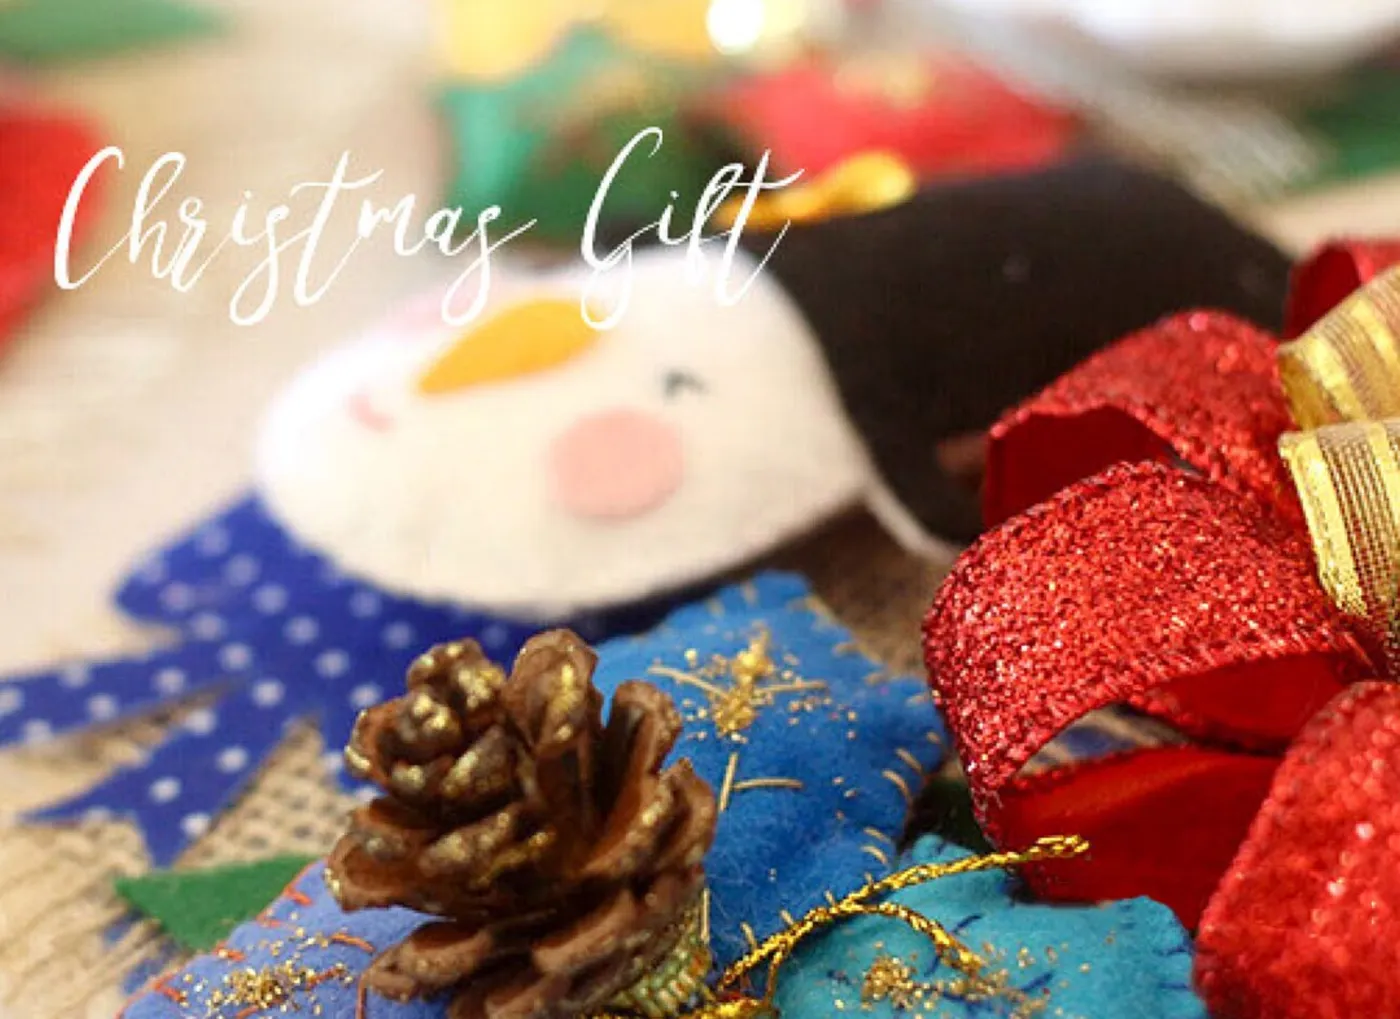
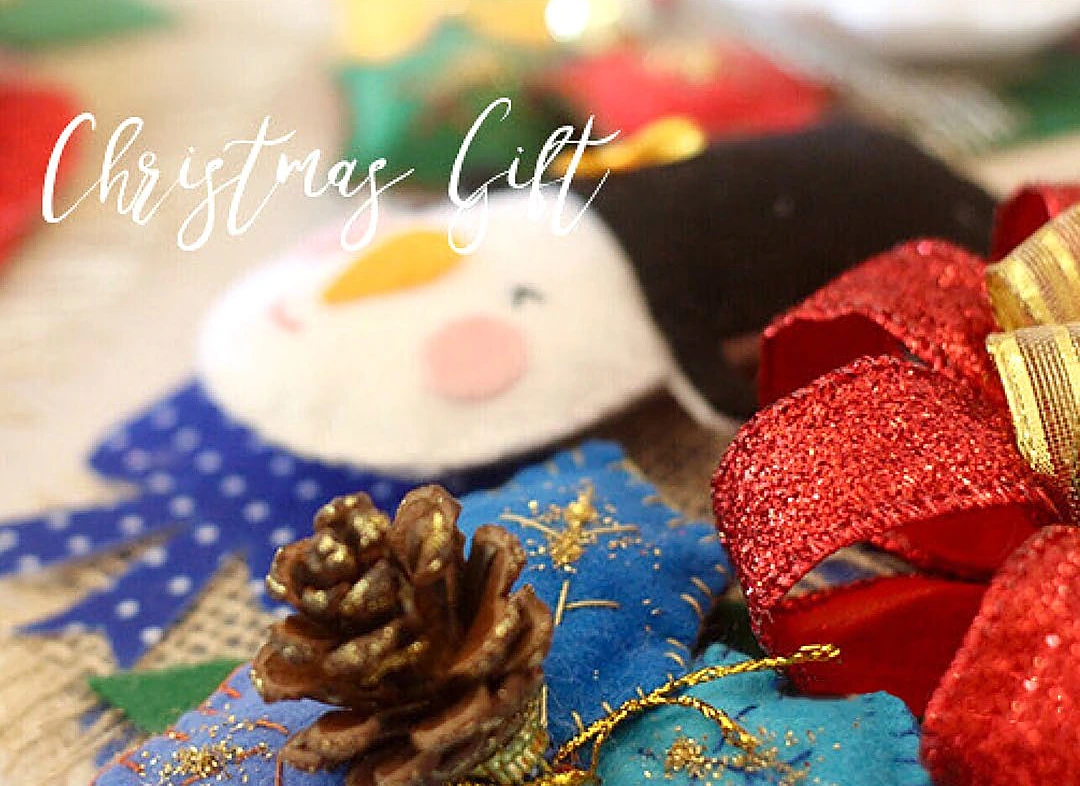
Natal em Feltro: abertura com trilha, galeria, parallax e animações
Claude-Session: https://claude.ai/code/session_01H3Bo7vmub3MBMH4rP9mJMZ

diff --git a/natal-em-feltro/index.html b/natal-em-feltro/index.html
@@ -47,8 +47,8 @@ img{display:block;max-width:100%}
 .ribbon p b{color:#ffd9a6;font-weight:600;padding:0 .4em}
 
 /* ---------- PARALLAX PHOTO ---------- */
-.gift{position:relative;height:clamp(320px,62vw,620px);overflow:hidden}
-.gift img{position:absolute;left:0;top:-15%;width:100%;height:130%;object-fit:cover;object-position:12% 50%;will-change:transform}
+.gift{position:relative;aspect-ratio:1080/786;overflow:hidden}
+.gift img{position:absolute;left:0;top:0;width:100%;height:100%;object-fit:cover;will-change:transform}
 .gift::after{content:"";position:absolute;inset:0;background:linear-gradient(transparent 60%,var(--cream))}
 
 /* ---------- SECTIONS ---------- */
@@ -97,7 +97,59 @@ section.cat{padding:clamp(56px,10vw,110px) 16px clamp(40px,7vw,80px);max-width:1
 .sound.on .eq i:nth-child(2){animation-delay:-.3s}.sound.on .eq i:nth-child(3){animation-delay:-.6s}
 @keyframes eq{0%,100%{height:4px}50%{height:14px}}
 
+
+/* ---------- INTRO GATE ---------- */
+.gate{position:fixed;inset:0;z-index:50;display:grid;place-items:center;background:radial-gradient(90% 70% at 50% 40%,#d7e7c6,#9fc08c);transition:transform .9s cubic-bezier(.32,.72,0,1),opacity .9s ease;cursor:pointer}
+.gate.out{transform:translateY(-100%);opacity:.6;pointer-events:none}
+.gate-in{text-align:center;padding:24px}
+.gate img{width:min(62vw,280px);margin:0 auto;transform-origin:52% 0;animation:swing 3.6s ease-in-out infinite}
+.gate button{margin-top:28px;border:0;cursor:pointer;background:var(--red);color:#fff;font:600 13px "Montserrat",sans-serif;letter-spacing:.2em;padding:18px 30px;border-radius:999px;box-shadow:0 14px 30px -10px rgba(140,10,20,.6);transition:transform .16s ease-out;animation:pulse 2.2s ease-in-out infinite}
+.gate button:active{transform:scale(.96)}
+@keyframes pulse{0%,100%{box-shadow:0 14px 30px -10px rgba(140,10,20,.6),0 0 0 0 rgba(201,28,39,.35)}50%{box-shadow:0 14px 30px -10px rgba(140,10,20,.6),0 0 0 14px rgba(201,28,39,0)}}
+.gate p{margin-top:16px;font-family:"Cormorant Garamond",serif;font-style:italic;font-size:20px;color:#2c4a2c}
+/* entrance */
+.chars-wrap,.tag-wrap{position:absolute;inset:0}
+body:not(.open) .chars-wrap{transform:translateY(40%);opacity:0}
+body:not(.open) .tag-wrap{transform:translateY(-60%);opacity:0}
+.chars-wrap{transition:transform 1.3s cubic-bezier(.34,1.4,.5,1) .35s,opacity .6s ease .35s}
+.tag-wrap{transition:transform 1.4s cubic-bezier(.34,1.5,.5,1) .15s,opacity .5s ease .15s}
+.tilt{position:absolute;inset:0;will-change:transform}
+/* section heading handwriting reveal */
+.head h2,.contact h2{clip-path:inset(-20% 100% -30% 0);transition:clip-path 1.6s cubic-bezier(.65,0,.35,1) .15s}
+.in .head h2,.head.in h2,.contact h2.in{clip-path:inset(-20% -5% -30% 0)}
+.orn::before,.orn::after{transform:scaleX(0);transition:transform 1s cubic-bezier(.23,1,.32,1) .5s}
+.orn::before{transform-origin:right}.orn::after{transform-origin:left}
+.in .orn::before,.in .orn::after,.orn.in::before,.orn.in::after{transform:scaleX(1)}
+/* card image reveal */
+.card{overflow:hidden;cursor:zoom-in}
+.card .ph{overflow:hidden;border-radius:8px;clip-path:inset(100% 0 0 0 round 8px);transition:clip-path 1.1s cubic-bezier(.77,0,.175,1);transition-delay:calc(var(--d,0s) + .1s)}
+.card .ph img{transform:scale(1.18);transition:transform 1.6s cubic-bezier(.23,1,.32,1);transition-delay:calc(var(--d,0s) + .1s);border-radius:0}
+.card.in .ph{clip-path:inset(0 0 0 0 round 8px)}
+.card.in .ph img{transform:scale(1)}
+.card:active{transform:scale(.98)}
+.drift{will-change:transform}
+/* floating ornaments */
+.floaty{position:absolute;pointer-events:none;color:var(--gold);opacity:.55;will-change:transform}
+.floaty svg{width:100%;height:100%;animation:spin 18s linear infinite}
+@keyframes spin{to{transform:rotate(360deg)}}
+.gift{max-width:1180px;margin:0 auto}
+.gift img{transform-origin:50% 50%}
+/* ---------- LIGHTBOX ---------- */
+.lb{position:fixed;inset:0;z-index:40;display:flex;align-items:center;justify-content:center;visibility:hidden}
+.lb-bg{position:absolute;inset:0;background:rgba(30,14,10,.82);backdrop-filter:blur(14px) saturate(140%);opacity:0;transition:opacity .35s ease}
+.lb.on{visibility:visible}.lb.on .lb-bg{opacity:1}
+.lb-img{position:relative;max-width:min(92vw,720px);max-height:82svh;border-radius:12px;box-shadow:0 30px 70px -20px rgba(0,0,0,.6);touch-action:none;user-select:none;-webkit-user-drag:none}
+.lb button{position:absolute;border:0;background:rgba(255,253,248,.14);color:#fff;width:48px;height:48px;border-radius:50%;font-size:22px;cursor:pointer;backdrop-filter:blur(8px);transition:transform .16s ease-out,background .2s ease;opacity:0}
+.lb.on button{opacity:1;transition:opacity .3s ease .15s,transform .16s ease-out}
+.lb button:active{transform:scale(.92)}
+@media (hover:hover){.lb button:hover{background:rgba(255,253,248,.26)}}
+.lb .x{top:16px;right:16px}.lb .pv{left:12px;top:50%;margin-top:-24px}.lb .nx{right:12px;top:50%;margin-top:-24px}
+.lb .count{position:absolute;bottom:22px;left:0;right:0;text-align:center;color:#f5e8d6;font:500 12px "Montserrat";letter-spacing:.2em;opacity:0;transition:opacity .3s ease .15s}
+.lb.on .count{opacity:.8}
+@media (max-width:640px){.lb .pv,.lb .nx{display:none}}
+
 @media (prefers-reduced-motion:reduce){
+  .head h2,.contact h2,.card .ph{clip-path:none!important}.card .ph img{transform:none!important}body:not(.open) .chars-wrap,body:not(.open) .tag-wrap{transform:none;opacity:1}
   *,*::before,*::after{animation:none!important;transition:none!important}
   .reveal{opacity:1;transform:none}
 }
@@ -105,14 +157,17 @@ section.cat{padding:clamp(56px,10vw,110px) 16px clamp(40px,7vw,80px);max-width:1
 </head>
 <body>
 
+<div class="gate" id="gate" role="dialog" aria-label="Abrir catálogo">
+  <div class="gate-in"><img src="img/tag.webp" alt=""><br><button id="enter">ABRIR O CATÁLOGO ♪</button><p>com trilha de Natal</p></div>
+</div>
 <header class="hero" id="hero">
   <div class="hero-bg" data-speed="0.35"></div>
   <div class="bokeh" data-speed="0.2" id="bokeh"></div>
   <div class="stage">
     <div class="stage-inner" data-speed="-0.12">
-      <img class="tag" src="img/tag.webp" alt="Catálogo Guirlandas de Natal">
-      <img class="chars" src="img/chars.webp" alt="Boneco de neve, Papai Noel e rena cantando">
-      <div class="notes"><span style="left:30%;top:42%">♪</span><span style="left:55%;top:40%;animation-delay:1.6s">♫</span><span style="left:76%;top:46%;animation-delay:3.2s">♪</span></div>
+      <div class="tilt" data-depth="10"><div class="tag-wrap"><img class="tag" src="img/tag.webp" alt="Catálogo Guirlandas de Natal"></div></div>
+      <div class="tilt" data-depth="22"><div class="chars-wrap"><img class="chars" src="img/chars.webp" alt="Boneco de neve, Papai Noel e rena cantando">
+      <div class="notes"><span style="left:30%;top:42%">♪</span><span style="left:55%;top:40%;animation-delay:1.6s">♫</span><span style="left:76%;top:46%;animation-delay:3.2s">♪</span></div></div></div>
     </div>
   </div>
   <canvas id="snow"></canvas>
@@ -124,9 +179,10 @@ section.cat{padding:clamp(56px,10vw,110px) 16px clamp(40px,7vw,80px);max-width:1
   <p>GUIRLANDAS<b>·</b>ENFEITES DE CORDA<b>·</b>ENFEITES DE ÁRVORE</p>
 </div>
 
-<div class="gift"><img src="img/gift.webp" alt="Detalhe de enfeites de feltro com laço e pinha" data-speed="0.18"></div>
+<div class="gift" id="gift"><img src="img/gift.webp" alt="Detalhe de enfeites de feltro com laço e pinha" data-speed="0.18"></div>
 
 <main class="paper">
+<div class="floaty" data-f="0.25" style="left:4%;top:6%;width:34px;height:34px"><svg viewBox="0 0 40 40" fill="none" stroke="currentColor" stroke-width="1.6" stroke-linecap="round"><path d="M20 3v34M5.3 11.5l29.4 17M5.3 28.5l29.4-17M20 9l-4-4M20 9l4-4M20 31l-4 4M20 31l4 4"/></svg></div><div class="floaty" data-f="0.4" style="left:88%;top:14%;width:22px;height:22px"><svg viewBox="0 0 40 40" fill="none" stroke="currentColor" stroke-width="1.6" stroke-linecap="round"><path d="M20 3v34M5.3 11.5l29.4 17M5.3 28.5l29.4-17M20 9l-4-4M20 9l4-4M20 31l-4 4M20 31l4 4"/></svg></div><div class="floaty" data-f="0.35" style="left:10%;top:31%;width:18px;height:18px"><svg viewBox="0 0 40 40" fill="none" stroke="currentColor" stroke-width="1.6" stroke-linecap="round"><path d="M20 3v34M5.3 11.5l29.4 17M5.3 28.5l29.4-17M20 9l-4-4M20 9l4-4M20 31l-4 4M20 31l4 4"/></svg></div><div class="floaty" data-f="0.2" style="left:91%;top:40%;width:38px;height:38px"><svg viewBox="0 0 40 40" fill="none" stroke="currentColor" stroke-width="1.6" stroke-linecap="round"><path d="M20 3v34M5.3 11.5l29.4 17M5.3 28.5l29.4-17M20 9l-4-4M20 9l4-4M20 31l-4 4M20 31l4 4"/></svg></div><div class="floaty" data-f="0.45" style="left:6%;top:58%;width:26px;height:26px"><svg viewBox="0 0 40 40" fill="none" stroke="currentColor" stroke-width="1.6" stroke-linecap="round"><path d="M20 3v34M5.3 11.5l29.4 17M5.3 28.5l29.4-17M20 9l-4-4M20 9l4-4M20 31l-4 4M20 31l4 4"/></svg></div><div class="floaty" data-f="0.3" style="left:86%;top:70%;width:20px;height:20px"><svg viewBox="0 0 40 40" fill="none" stroke="currentColor" stroke-width="1.6" stroke-linecap="round"><path d="M20 3v34M5.3 11.5l29.4 17M5.3 28.5l29.4-17M20 9l-4-4M20 9l4-4M20 31l-4 4M20 31l4 4"/></svg></div><div class="floaty" data-f="0.25" style="left:12%;top:86%;width:30px;height:30px"><svg viewBox="0 0 40 40" fill="none" stroke="currentColor" stroke-width="1.6" stroke-linecap="round"><path d="M20 3v34M5.3 11.5l29.4 17M5.3 28.5l29.4-17M20 9l-4-4M20 9l4-4M20 31l-4 4M20 31l4 4"/></svg></div><div class="floaty" data-f="0.4" style="left:90%;top:92%;width:24px;height:24px"><svg viewBox="0 0 40 40" fill="none" stroke="currentColor" stroke-width="1.6" stroke-linecap="round"><path d="M20 3v34M5.3 11.5l29.4 17M5.3 28.5l29.4-17M20 9l-4-4M20 9l4-4M20 31l-4 4M20 31l4 4"/></svg></div>
   <section class="cat">
     <div class="head reveal">
       <div class="kicker">Coleção de Natal</div>
@@ -164,7 +220,7 @@ section.cat{padding:clamp(56px,10vw,110px) 16px clamp(40px,7vw,80px);max-width:1
       <div class="orn">✦</div>
       <p class="sub">embalados um a um, prontos para presentear</p>
     </div>
-    <div class="card wide reveal"><img src="img/arvore.webp" alt="Enfeites de árvore em feltro: Papai Noel, rena e boneco de neve" loading="lazy"></div>
+    <div class="card wide reveal"><div class="ph"><img src="img/arvore.webp" alt="Enfeites de árvore em feltro: Papai Noel, rena e boneco de neve" loading="lazy"></div></div>
   </section>
 
   <section class="contact" id="contato">
@@ -177,6 +233,7 @@ section.cat{padding:clamp(56px,10vw,110px) 16px clamp(40px,7vw,80px);max-width:1
   </section>
 </main>
 
+<div class="lb" id="lb" aria-hidden="true"><div class="lb-bg"></div><img class="lb-img" id="lbImg" alt=""><button class="x" aria-label="Fechar">✕</button><button class="pv" aria-label="Anterior">‹</button><button class="nx" aria-label="Próxima">›</button><div class="count" id="lbCount"></div></div>
 <button class="sound" id="sound" aria-pressed="false" aria-label="Ligar música">
   <span class="eq"><i></i><i></i><i></i></span><span id="soundLabel">Ligar música</span>
 </button>
@@ -190,7 +247,7 @@ document.querySelectorAll('[data-items]').forEach(g=>{
   for(let i=1;i<=n;i++){
     const d=document.createElement('div');d.className='card reveal';
     d.style.setProperty('--d',((i-1)%(p==='g'?2:4))*0.09+'s');
-    d.innerHTML=`<img src="img/${p}${i}.webp" alt="" loading="lazy">`;g.appendChild(d);
+    d.innerHTML=`<div class="ph"><img src="img/${p}${i}.webp" alt="" loading="lazy"></div>`;d.classList.add("drift");d.dataset.col=(i-1)%(p==='g'?2:4);g.appendChild(d);
   }
 });
 
@@ -203,18 +260,48 @@ const bk=document.getElementById('bokeh');
 for(let i=0;i<16;i++){const b=document.createElement('i'),s=20+Math.random()*90;
   Object.assign(b.style,{width:s+'px',height:s+'px',left:Math.random()*100+'%',top:Math.random()*70+'%',animationDelay:(-Math.random()*6)+'s',animationDuration:(4+Math.random()*5)+'s'});bk.appendChild(b);}
 
-/* parallax */
-const px=[...document.querySelectorAll('[data-speed]')];
-let ticking=false;
-function onScroll(){
-  if(ticking||reduce)return;ticking=true;
-  requestAnimationFrame(()=>{const y=scrollY;
-    px.forEach(el=>{const r=el.closest('.gift');
-      const base=r?(y-r.offsetTop+innerHeight):y;
-      el.style.transform=`translate3d(0,${base*el.dataset.speed}px,0)`;});
-    ticking=false;});
-}
-addEventListener('scroll',onScroll,{passive:true});
+/* motion: scroll parallax + pointer tilt (spring-smoothed) */
+const px=[...document.querySelectorAll('[data-speed]')],tilts=[...document.querySelectorAll('.tilt')],
+ floaties=[...document.querySelectorAll('.floaty')],drifts=[...document.querySelectorAll('.drift')],giftEl=document.getElementById('gift'),giftImg=giftEl.querySelector('img');
+let mx=0,my=0,cx_=0,cy_=0;
+addEventListener('pointermove',e=>{if(e.pointerType!=='mouse')return;mx=e.clientX/innerWidth-.5;my=e.clientY/innerHeight-.5},{passive:true});
+addEventListener('deviceorientation',e=>{if(e.gamma==null)return;mx=Math.max(-.5,Math.min(.5,e.gamma/40));my=Math.max(-.5,Math.min(.5,(e.beta-45)/60))},{passive:true});
+function frame(){
+  const y=scrollY,vh=innerHeight;
+  cx_+=(mx-cx_)*.08;cy_+=(my-cy_)*.08;
+  px.forEach(el=>{if(el===giftImg)return;el.style.transform=`translate3d(0,${y*el.dataset.speed}px,0)`});
+  tilts.forEach(t=>{const d=+t.dataset.depth;t.style.transform=`translate3d(${-cx_*d}px,${-cy_*d*.6}px,0)`});
+  const gr=giftEl.getBoundingClientRect(),gp=(vh-gr.top)/(vh+gr.height);
+  if(gp>-.1&&gp<1.1)giftImg.style.transform=`translate3d(0,${(gp-.5)*-36}px,0) scale(${1.24-gp*.12})`;
+  floaties.forEach(f=>{const r=f.parentElement.getBoundingClientRect();f.style.transform=`translate3d(0,${(r.top+f.offsetTop-vh/2)*-f.dataset.f}px,0)`});
+  drifts.forEach(d=>{const r=d.getBoundingClientRect();if(r.bottom<0||r.top>vh)return;const c=+d.dataset.col,amt=(c%2?1:-1)*14;
+    d.style.translate=`0 ${((r.top+r.height/2)/vh-.5)*amt}px`});
+  requestAnimationFrame(frame);}
+if(!reduce)requestAnimationFrame(frame);
+
+/* lightbox gallery */
+const cards=[...document.querySelectorAll('.card')],lb=document.getElementById('lb'),lbImg=document.getElementById('lbImg'),lbCount=document.getElementById('lbCount');
+let cur=-1,group=[];
+function show(i,dir=0){cur=(i+group.length)%group.length;const src=group[cur].querySelector('img').src;
+  if(dir){lbImg.animate([{transform:`translateX(${dir*40}px)`,opacity:0},{transform:'none',opacity:1}],{duration:320,easing:'cubic-bezier(.23,1,.32,1)'});}
+  lbImg.src=src;lbCount.textContent=`${cur+1} / ${group.length}`;}
+function openLB(card){const sec=card.closest('section');group=[...sec.querySelectorAll('.card')];show(group.indexOf(card));
+  lb.classList.add('on');lb.setAttribute('aria-hidden','false');
+  requestAnimationFrame(()=>{const a=card.getBoundingClientRect(),b=lbImg.getBoundingClientRect();
+    lbImg.animate([{transform:`translate(${a.left+a.width/2-(b.left+b.width/2)}px,${a.top+a.height/2-(b.top+b.height/2)}px) scale(${a.width/b.width})`,opacity:.6},{transform:'none',opacity:1}],{duration:480,easing:'cubic-bezier(.32,.72,0,1)'});});}
+function closeLB(){lbImg.animate([{transform:'none',opacity:1},{transform:'scale(.94)',opacity:0}],{duration:200,easing:'cubic-bezier(.23,1,.32,1)'}).onfinish=()=>{lb.classList.remove('on');lb.setAttribute('aria-hidden','true')};}
+cards.forEach(c=>c.addEventListener('click',()=>openLB(c)));
+lb.querySelector('.x').onclick=closeLB;lb.querySelector('.lb-bg').onclick=closeLB;
+lb.querySelector('.pv').onclick=()=>show(cur-1,-1);lb.querySelector('.nx').onclick=()=>show(cur+1,1);
+addEventListener('keydown',e=>{if(!lb.classList.contains('on'))return;if(e.key==='Escape')closeLB();if(e.key==='ArrowRight')show(cur+1,1);if(e.key==='ArrowLeft')show(cur-1,-1)});
+/* swipe: 1:1 drag, velocity flick, swipe down to close */
+let sx=0,sy=0,st=0,drag=false;
+lbImg.addEventListener('pointerdown',e=>{drag=true;sx=e.clientX;sy=e.clientY;st=performance.now();lbImg.setPointerCapture(e.pointerId)});
+lbImg.addEventListener('pointermove',e=>{if(!drag)return;const dx=e.clientX-sx,dy=e.clientY-sy;
+  lbImg.style.transform=Math.abs(dy)>Math.abs(dx)&&dy>0?`translateY(${dy}px) scale(${1-dy/1600})`:`translateX(${dx}px)`});
+lbImg.addEventListener('pointerup',e=>{if(!drag)return;drag=false;const dx=e.clientX-sx,dy=e.clientY-sy,v=Math.hypot(dx,dy)/(performance.now()-st);lbImg.style.transform='';
+  if(dy>90&&Math.abs(dy)>Math.abs(dx)||(dy>30&&v>.6&&Math.abs(dy)>Math.abs(dx)))return closeLB();
+  if(Math.abs(dx)>60||(Math.abs(dx)>20&&v>.5))show(cur+(dx<0?1:-1),dx<0?1:-1);});
 
 /* snow */
 const cv=document.getElementById('snow'),cx=cv.getContext('2d');let flakes=[],W,H;
@@ -247,13 +334,17 @@ function loop(){const t0=ac.currentTime+.1;let t=t0;
   bass.forEach((n,i)=>bell(t0+i*4*beat,N[n]/2,.28,1.4));
   timer=setTimeout(loop,(t-t0+beat*4)*1000);}
 function start(){if(!ac){ac=new (window.AudioContext||window.webkitAudioContext)();master=ac.createGain();master.gain.value=0;master.connect(ac.destination);}
-  ac.resume();master.gain.cancelScheduledValues(ac.currentTime);master.gain.linearRampToValueAtTime(.07,ac.currentTime+1.2);
+  ac.resume();master.gain.cancelScheduledValues(ac.currentTime);master.gain.linearRampToValueAtTime(.17,ac.currentTime+1.2);
   if(!playing){playing=true;loop();}set(true);}
 function stop(){if(!ac)return;master.gain.linearRampToValueAtTime(0,ac.currentTime+.4);clearTimeout(timer);playing=false;set(false);}
 function set(on){btn.classList.toggle('on',on);btn.setAttribute('aria-pressed',on);lbl.textContent=on?'Desligar som':'Ligar música';btn.setAttribute('aria-label',lbl.textContent);}
 btn.addEventListener('click',e=>{e.stopPropagation();if(playing){userOff=true;stop()}else{userOff=false;start()}});
 /* começa baixinho no primeiro toque na página (navegadores não deixam tocar sozinho) */
-addEventListener('pointerdown',function first(){removeEventListener('pointerdown',first);if(!userOff&&!playing)start();},{once:true});
+
+const gate=document.getElementById('gate');document.documentElement.style.overflow='hidden';
+function openGate(){start();gate.classList.add('out');document.body.classList.add('open');document.documentElement.style.overflow='';setTimeout(()=>gate.remove(),1000);}
+gate.addEventListener('click',openGate);
+
 </script>
 </body>
 </html>
